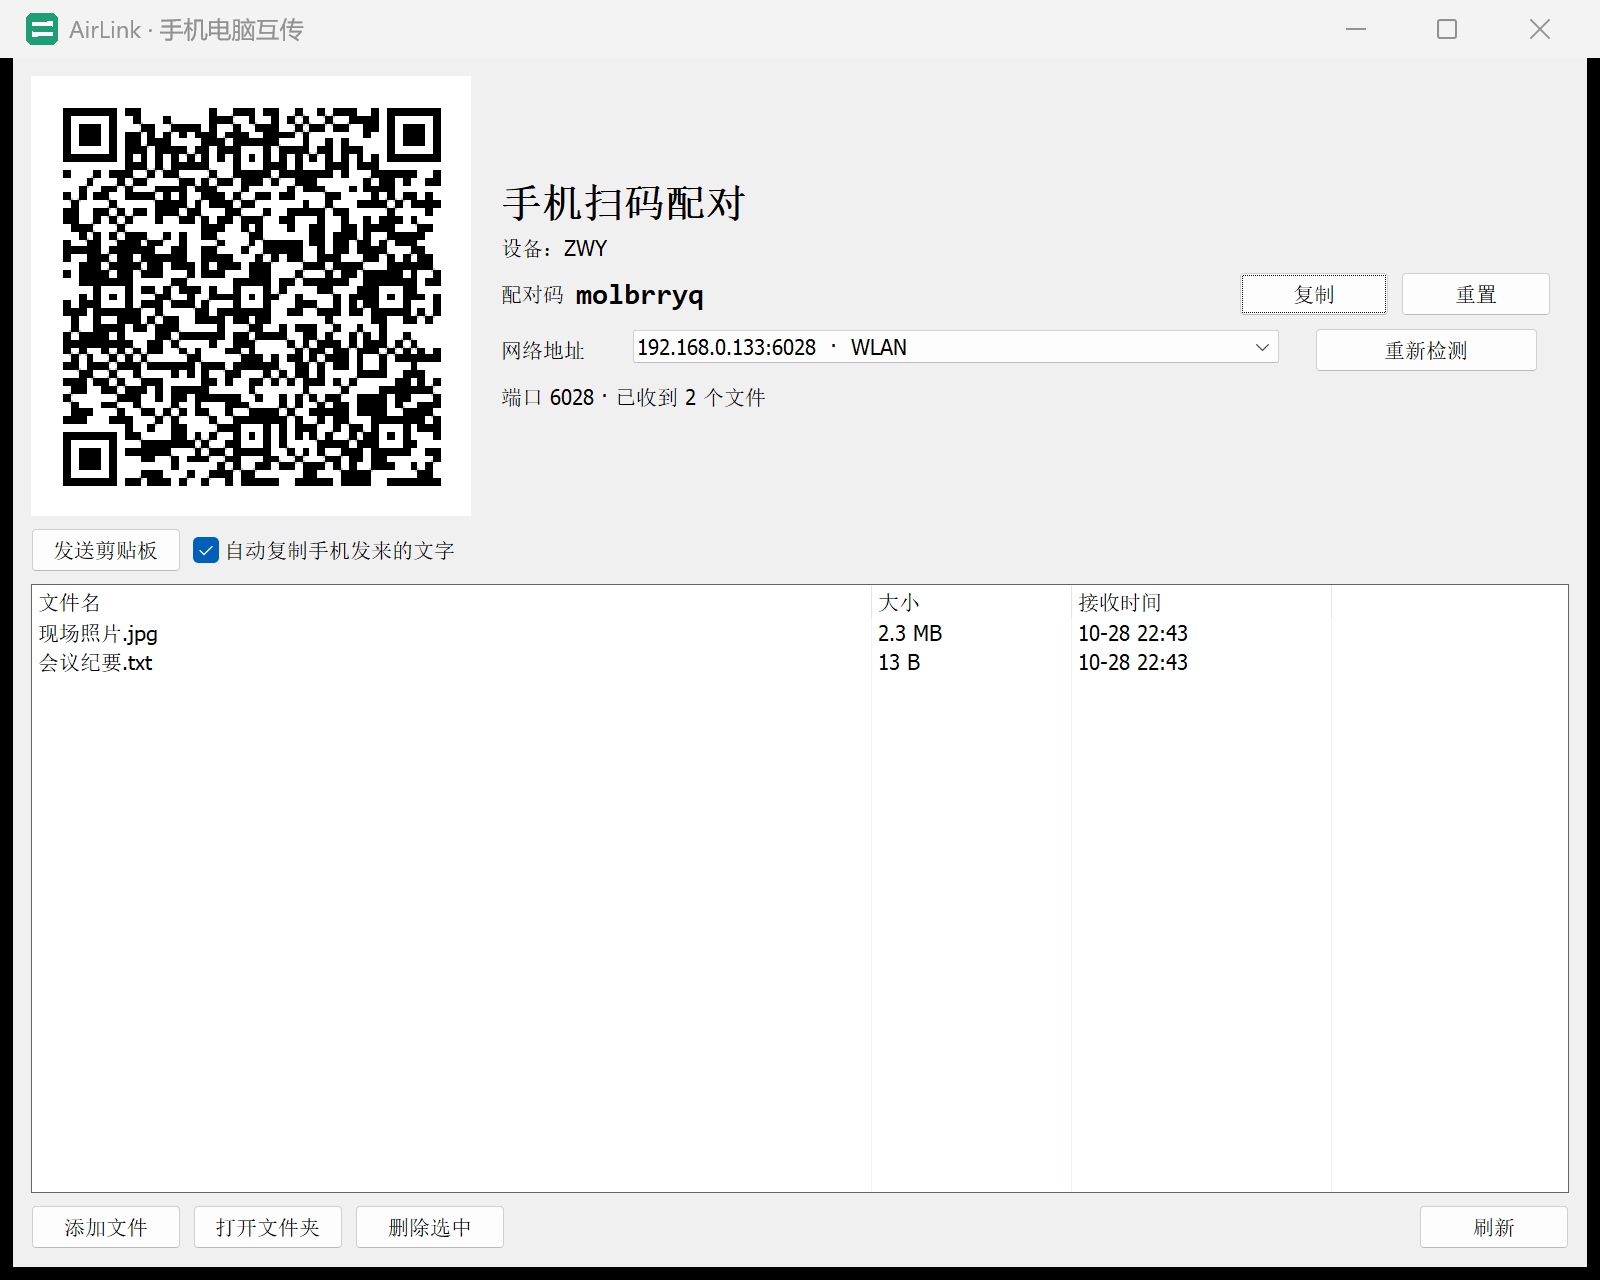
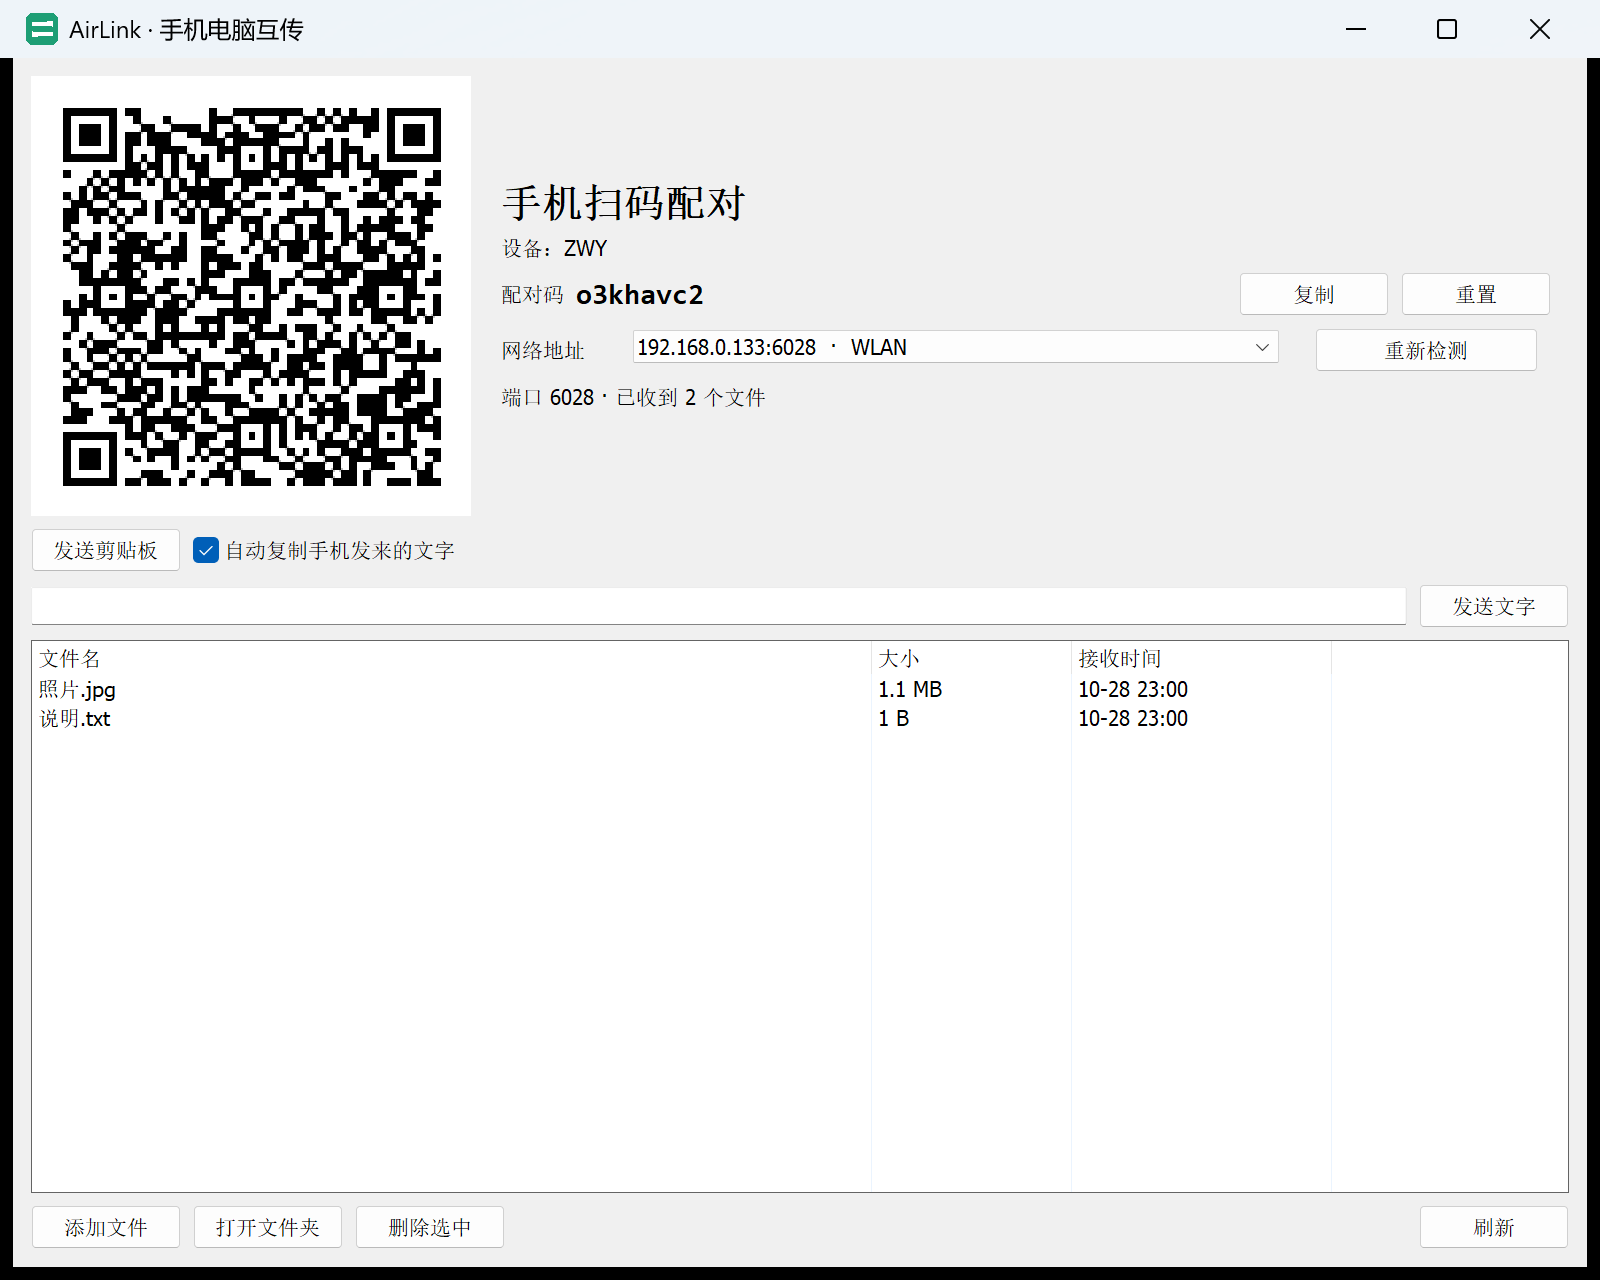
fix: 扫码改竖屏、照片改手动选择、剪贴板自动刷新、发送可中止、电脑端加发文字
- 安卓：CaptureActivity 在清单里覆盖为 portrait（库默认 sensorLandscape）
- 安卓：照片改用 PickMultipleVisualMedia，不再自动上传整个相册，同时去掉相册权限
- 安卓：前台每 4 秒刷新一次，电脑发来的剪贴板/文件不再需要手动切页
- 安卓：传输中显示「中止发送」，stopService 取消协程
- Windows：新增文字输入框 + 发送按钮

diff --git a/android/app/src/main/java/com/airlink/app/MainActivity.kt b/android/app/src/main/java/com/airlink/app/MainActivity.kt
@@ -16,6 +16,7 @@ import android.widget.Toast
 import androidx.activity.ComponentActivity
 import androidx.activity.compose.rememberLauncherForActivityResult
 import androidx.activity.compose.setContent
+import androidx.activity.result.PickVisualMediaRequest
 import androidx.activity.result.contract.ActivityResultContracts
 import androidx.compose.foundation.background
 import androidx.compose.foundation.layout.Arrangement
@@ -67,6 +68,7 @@ import androidx.core.content.ContextCompat
 import com.journeyapps.barcodescanner.ScanContract
 import com.journeyapps.barcodescanner.ScanOptions
 import kotlinx.coroutines.Dispatchers
+import kotlinx.coroutines.delay
 import kotlinx.coroutines.launch
 import kotlinx.coroutines.withContext
 
@@ -141,7 +143,7 @@ private fun Root() {
                         setDesiredBarcodeFormats(ScanOptions.QR_CODE)
                         setPrompt("扫描电脑上的二维码")
                         setBeepEnabled(false)
-                        setOrientationLocked(false)
+                        setOrientationLocked(true) // 锁竖屏，跟着清单走
                     }
                 )
             },
@@ -235,7 +237,17 @@ private fun HomeScreen(device: Device, onDisconnect: () -> Unit) {
     val status by TransferBus.message.collectAsState()
     val finished by TransferBus.finished.collectAsState()
 
-    LaunchedEffect(device, finished) {
+    var refreshKey by remember { mutableStateOf(0) }
+
+    // 电脑发来的剪贴板和文件没有推送通道，前台每 4 秒主动拉一次。
+    LaunchedEffect(device) {
+        while (true) {
+            delay(4000)
+            refreshKey++
+        }
+    }
+
+    LaunchedEffect(device, finished, refreshKey) {
         val result = withContext(Dispatchers.IO) {
             runCatching {
                 val api = Api(device)
@@ -266,24 +278,13 @@ private fun HomeScreen(device: Device, onDisconnect: () -> Unit) {
         TransferService.start(ctx, device, uris.map { it.toString() })
     }
 
-    // 相册备份：只读 MediaStore，按时间倒序取最近的图片。
-    var backupRequested by remember { mutableStateOf(false) }
-    val photoPermLauncher = rememberLauncherForActivityResult(
-        ActivityResultContracts.RequestPermission()
-    ) { granted ->
-        if (granted) backupRequested = true else toast(ctx, "没有相册权限")
-    }
-
-    LaunchedEffect(backupRequested) {
-        if (!backupRequested) return@LaunchedEffect
-        backupRequested = false
-        val uris = withContext(Dispatchers.IO) { recentPhotos(ctx, 200) }
-        if (uris.isEmpty()) {
-            toast(ctx, "没有找到照片")
-        } else {
-            toast(ctx, "开始备份 ${uris.size} 张照片")
-            TransferService.start(ctx, device, uris.map { it.toString() })
-        }
+    // 照片走系统选择器：用户自己挑，不擅自上传整个相册。
+    // 安卓 11+ 用系统 Photo Picker，不需要相册权限。
+    val photoPicker = rememberLauncherForActivityResult(
+        ActivityResultContracts.PickMultipleVisualMedia(200)
+    ) { uris ->
+        if (uris.isEmpty()) return@rememberLauncherForActivityResult
+        TransferService.start(ctx, device, uris.map { it.toString() })
     }
 
     LazyColumn(
@@ -316,6 +317,16 @@ private fun HomeScreen(device: Device, onDisconnect: () -> Unit) {
                 ) {
                     Text(if (running) "传输中…" else "选择文件发送到电脑", fontSize = 15.sp)
                 }
+                if (running) {
+                    Spacer(Modifier.height(10.dp))
+                    OutlinedButton(
+                        onClick = { TransferService.cancel(ctx) },
+                        modifier = Modifier
+                            .fillMaxWidth()
+                            .height(44.dp),
+                        shape = RoundedCornerShape(10.dp),
+                    ) { Text("中止发送", fontSize = 14.sp, color = Color(0xFFC0453F)) }
+                }
                 if (status.isNotEmpty()) {
                     Spacer(Modifier.height(10.dp))
                     Text(status, color = Muted, fontSize = 12.sp)
@@ -331,26 +342,17 @@ private fun HomeScreen(device: Device, onDisconnect: () -> Unit) {
             Card {
                 Row(verticalAlignment = Alignment.CenterVertically) {
                     Column(Modifier.weight(1f)) {
-                        Text("照片备份", fontSize = 14.sp, fontWeight = FontWeight.Medium)
-                        Text("把最近 200 张图片传到电脑", color = Muted, fontSize = 12.sp)
+                        Text("选择照片", fontSize = 14.sp, fontWeight = FontWeight.Medium)
+                        Text("从相册里挑，不会自动上传全部", color = Muted, fontSize = 12.sp)
                     }
                     OutlinedButton(
                         onClick = {
-                            val perm = if (Build.VERSION.SDK_INT >= 33) {
-                                Manifest.permission.READ_MEDIA_IMAGES
-                            } else {
-                                Manifest.permission.READ_EXTERNAL_STORAGE
-                            }
-                            if (ContextCompat.checkSelfPermission(ctx, perm) ==
-                                PackageManager.PERMISSION_GRANTED
-                            ) {
-                                backupRequested = true
-                            } else {
-                                photoPermLauncher.launch(perm)
-                            }
+                            photoPicker.launch(
+                                PickVisualMediaRequest(ActivityResultContracts.PickVisualMedia.ImageOnly)
+                            )
                         },
                         shape = RoundedCornerShape(9.dp),
-                    ) { Text("备份", fontSize = 13.sp, color = AccentDark) }
+                    ) { Text("选择", fontSize = 13.sp, color = AccentDark) }
                 }
             }
         }
@@ -522,30 +524,6 @@ private fun writeClipboard(ctx: Context, text: String) {
 
 private fun toast(ctx: Context, msg: String) {
     Toast.makeText(ctx, msg, Toast.LENGTH_SHORT).show()
-}
-
-// 按拍摄时间倒序取最近的图片。重复备份不会产生副本——服务端按同名同大小去重。
-private fun recentPhotos(ctx: Context, limit: Int): List<Uri> {
-    val projection = arrayOf(MediaStore.Images.Media._ID)
-    val out = ArrayList<Uri>()
-    ctx.contentResolver.query(
-        MediaStore.Images.Media.EXTERNAL_CONTENT_URI,
-        projection,
-        null,
-        null,
-        "${MediaStore.Images.Media.DATE_ADDED} DESC",
-    )?.use { c ->
-        val idCol = c.getColumnIndexOrThrow(MediaStore.Images.Media._ID)
-        while (c.moveToNext() && out.size < limit) {
-            out.add(
-                ContentUris.withAppendedId(
-                    MediaStore.Images.Media.EXTERNAL_CONTENT_URI,
-                    c.getLong(idCol),
-                )
-            )
-        }
-    }
-    return out
 }
 
 private fun startDownload(ctx: Context, device: Device, f: FileItem) {

diff --git a/android/app/src/main/java/com/airlink/app/TransferService.kt b/android/app/src/main/java/com/airlink/app/TransferService.kt
@@ -18,6 +18,7 @@ import androidx.core.content.ContextCompat
 import kotlinx.coroutines.CoroutineScope
 import kotlinx.coroutines.Dispatchers
 import kotlinx.coroutines.SupervisorJob
+import kotlinx.coroutines.cancel
 import kotlinx.coroutines.delay
 import kotlinx.coroutines.flow.MutableStateFlow
 import kotlinx.coroutines.launch
@@ -39,6 +40,14 @@ class TransferService : Service() {
     private val scope = CoroutineScope(SupervisorJob() + Dispatchers.IO)
 
     override fun onBind(intent: Intent?): IBinder? = null
+
+    // 用户点「中止发送」时，stopService 会走到这里，协程随之取消。
+    override fun onDestroy() {
+        scope.cancel()
+        TransferBus.running.value = false
+        TransferBus.message.value = "已中止发送"
+        super.onDestroy()
+    }
 
     override fun onStartCommand(intent: Intent?, flags: Int, startId: Int): Int {
         val host = intent?.getStringExtra("host")
@@ -199,6 +208,10 @@ class TransferService : Service() {
     companion object {
         private const val CHANNEL = "airlink_transfer"
         private const val NOTIF_ID = 1001
+
+        fun cancel(ctx: Context) {
+            ctx.stopService(Intent(ctx, TransferService::class.java))
+        }
 
         fun start(ctx: Context, device: Device, uris: List<String>) {
             val i = Intent(ctx, TransferService::class.java).apply {

diff --git a/server/gui.go b/server/gui.go
@@ -68,6 +68,7 @@ type gui struct {
 
 	autoBox  *walk.CheckBox
 	clipLbl  *walk.Label
+	textEdit *walk.LineEdit
 	autoCopy bool
 
 	srv     *Server
@@ -96,6 +97,18 @@ func runGUI(s *Server) {
 
 	g.startWatcher()
 	g.mw.Run()
+}
+
+// sendText 手动发一段文字给手机，手机端在剪贴板列表里点「复制」即可。
+func (g *gui) sendText() {
+	text := strings.TrimSpace(g.textEdit.Text())
+	if text == "" {
+		_ = g.clipLbl.SetText("输入框是空的")
+		return
+	}
+	g.srv.store.AddText(text, "电脑")
+	_ = g.textEdit.SetText("")
+	_ = g.clipLbl.SetText("已发送文字：" + clipPreview(text))
 }
 
 func (g *gui) toggleAutoCopy() {
@@ -186,6 +199,13 @@ func (g *gui) build() error {
 					},
 					HSpacer{},
 					Label{AssignTo: &g.clipLbl, Text: ""},
+				},
+			},
+			Composite{
+				Layout: HBox{MarginsZero: true},
+				Children: []Widget{
+					LineEdit{AssignTo: &g.textEdit, StretchFactor: 1},
+					PushButton{Text: "发送文字", OnClicked: g.sendText},
 				},
 			},
 			TableView{
